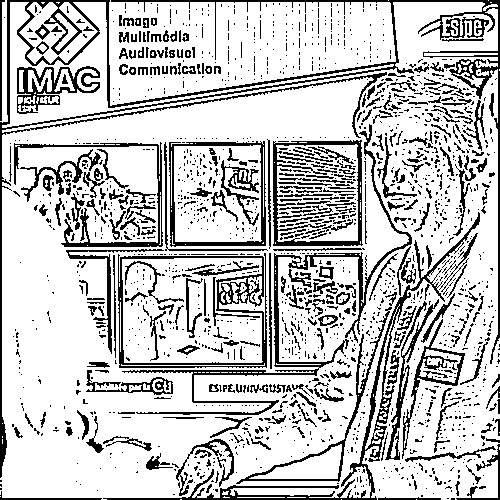
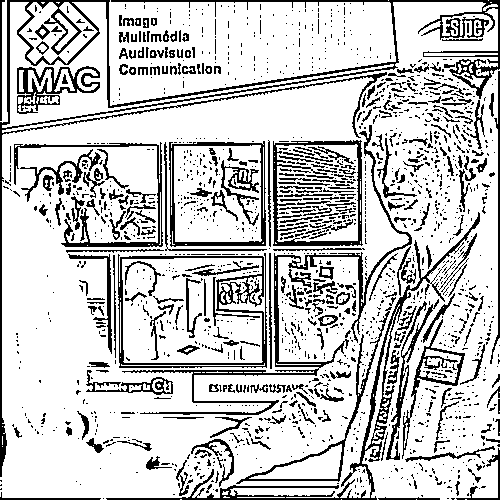
finished difference gaussienne

Changed region(s): [[0.24, 0.87, 0.27, 0.9]]

diff --git a/src/main.cpp b/src/main.cpp
@@ -768,9 +768,11 @@ void diff_gaussienne(sil::Image &image)
     {
         for (int y {0}; y < image.height(); ++y)
         {
-            image.pixel(x, y) = blurred_2D.pixel(x, y) - blurred_1D.pixel(x, y);
-            float b = (image.pixel(x, y).r + image.pixel(x, y).g + image.pixel(x, y).b) / 3.f;
-            if (b > 0.009)
+            glm::vec3 pix = image.pixel(x, y);
+            pix = blurred_2D.pixel(x, y) - blurred_1D.pixel(x, y);
+            
+            float b = (pix.r + pix.g + pix.b) / 3.f;
+            if (b > 0.01f)
             {
                 image.pixel(x, y) = glm::vec3(0.f);
             }

diff --git a/README.md b/README.md
@@ -109,7 +109,24 @@ Cette fractale avait été réalisée, de mon côté, dans le workshop d'Anthony
 ![alt text](./output/tramage/tramage_random_noise.png)
 
 Ordered dithering avec matrice de Bayer 4x4 :
+
 Principe du code : au lieu de se limiter à tester la luminosité d'un pixel par rapport à 0.5, on lui ajoute un facteur dépendant de sa position et de la matrice de Bayer, puis on compare cette luminosité par rapport à 0.5 (principe de base).
+L'algorithme codait est celui du site internet, traduit en C++.
+```
+for (int sy = 0; sy < viewport.height; sy++) {
+        float orig_color = get_screen_gradient(sy);
+        for (int sx = 0; sx < viewport.width; sx++) {
+            int color_result = BLACK;
+            float bayer_value = bayer_matrix_4x4[sy % bayer_n][sx % bayer_n];
+            float output_color = orig_color + (bayer_r * bayer_value);
+            // Color screen blue to white
+            if (output_color < (NUM_VALUES / 2)) {
+                color_result = WHITE;
+            }
+            *PIXEL_PTR((&screen), sx, sy, 1) = color_result;
+        }
+    }
+```
 
 ![alt text](./output/tramage/ordered_tramage.png)
 
@@ -157,3 +174,6 @@ Le principe est de passer deux kernels 1D l'un après l'autre, un kernel horizon
 ![alt text](./output/convolution/convolution_blur_1D.png)
 
 J'ai ainsi créé deux fonctions qui utilisent les kernels 1D, horizontalement puis verticalement.
+Le principe de la différence de gaussienne utilisé est celui de la vidéo YouTube (on fait une différence entre 2 flous, puis on fonce les contours).
+
+![alt text](./output/convolution/difference_de_gaussienne.png)
